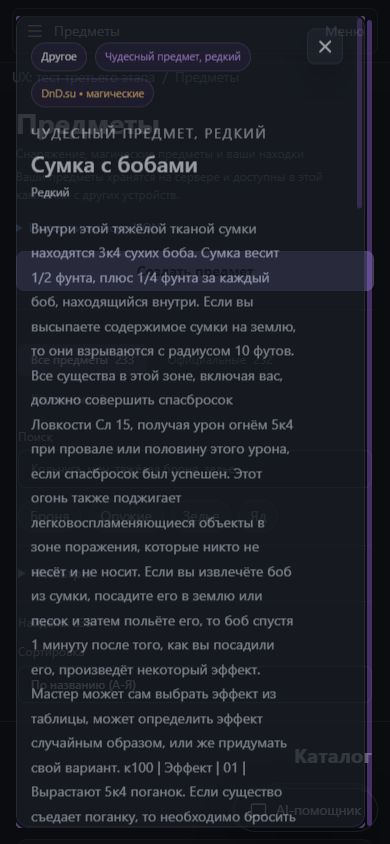
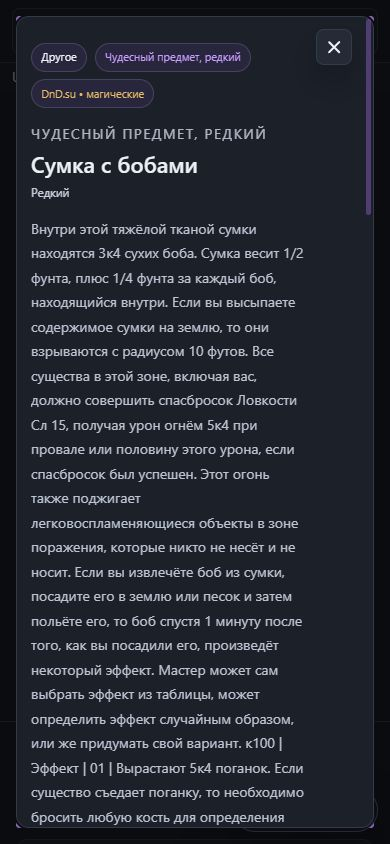
docs: record Fly release 188 verification and UI evidence

Changed region(s): [[0.0615, 0.0616, 0.8, 0.9858], [0.8, 0.0, 0.9846, 0.9858], [0.5231, 0.154, 0.6769, 0.1848]]

diff --git a/PROJECT_CONTEXT.md b/PROJECT_CONTEXT.md
@@ -2,6 +2,8 @@
 
 Краткий вход для AI-агента. Общая сверка с рабочим кодом — 14 сентября 2026 года, журнал и AI-анализ сессий дополнительно сверены 16 сентября 2026 года, модуль персонажей — 1 октября 2026 года; общая UX-оболочка — 24 октября 2026 года. Это карта реализации, а не план разработки; перед изменением конкретного участка открой указанные исходники. Правила сопровождения: [AGENTS.md](AGENTS.md).
 
+Проверенный веб-выпуск: Fly release 188 (исходники `705f864`), health check passing и совпадение 54 JS/CSS с локальной сборкой. Авторизованный production smoke связей/сцен ожидает входа; локальный браузерный прогон и границы проверки — `design-qa.md`.
+
 ## 1. Назначение и архитектура
 
 **Product Design UI.** Выбран [вариант 3](docs/audits/product-design-2026-10-23/concept-3.png): 64 px быстрые переходы + меню кампании, тёмные поверхности, светлый текст и лавандовый акцент. Канонические переменные — `packages/design-tokens/src/theme.css`, импорт через `styles/tokens.css` в web entry; App больше не сбрасывает их поздним импортом. `styles/product-design.css` после workspace.css задаёт общую оболочку и portal-окна. На ≤1120 px — меню с Escape/focus return. Записи, специализированные квесты/заметки/монстры и selected ready reader имеют общую панель связей; при preview/на телефоне она остаётся доступна ниже содержимого. RecordIllustration сохраняет пропорции, максимум 720 px/540 px, маленькие исходники не увеличивает; отдельный ImageZoomDialog даёт приближение. EntityEditorModal открывает раздел art/media/summary/content/stats/rewards по явному действию у блока; музыка/галерея доступны и при редактировании. AIJobsPanel в pageMode — обычная section, floating — modeless dialog; лишнего launcher на странице чата нет. Вопрос/неподтверждённая отправка AI имеют account/campaign draft без автоматического повтора запроса. Копии черновиков можно явно оставить на устройстве и продолжить текущую форму. Монстр без statBlock сохраняет независимые действия редактирования; `reward-input.ts` отбрасывает пустую строку категории «Лут», явный пустой reward document очищает блок без фиктивной добычи. Предмет в модальном окне хранится независимо от страницы каталога; прямая ссылка/ошибка загрузки/повтор и Escape обновляют URL. Оффлайн остаётся Beta; прежние dirty baseline, правила и модели/цены AI сохранены. LoginScreen прокручивается в пределах 100dvh. Проверки и ограничения — [design-qa.md](design-qa.md), свежие снимки — `docs/audits/product-design-2026-10-24/`.

diff --git a/design-qa.md b/design-qa.md
@@ -40,6 +40,6 @@ P1: shallow baseline compact delta, зависимость открытого п
 
 Пройдены полный Go suite, web build (TypeScript/Vite/gzip), MCP build+35 tests и регрессии routes/device drafts/transport/compact responses/scene editing/creative/reward input. Есть отдельные Go-тесты owner/revision/rollback/immutable ready overlay/JSONB split и последовательных compact PATCH. Полнота тестов не подменяет браузерную проверку выше.
 
-Локальный verdict: проверенные сценарии готовы к выпуску. Итоговые Fly health/asset hashes и статус авторизованного smoke записываются в [production-check.json](docs/audits/product-design-2026-10-24/production-check.json). До входа пользователя private production smoke остаётся непроверенным.
+Выпущен Fly release 188 из commit 705f864. Health check passing; главная, healthz/livez — 200, private API без сессии — 401; все 54 JS/CSS совпали с локальной сборкой. Итоговые hashes и статус авторизованного smoke записаны в [production-check.json](docs/audits/product-design-2026-10-24/production-check.json). До входа пользователя private production smoke остаётся непроверенным.
 
 Не проверялись реальное списание AI, внешние OAuth-provider credentials, физический touch/TV, live Foundry и все классы/уровни/административные роли. Игровые формулы/содержание immutable adventure и print-экспорт не менялись; частичное покрытие справочника остаётся явным ограничением, а не результатом редизайна.

diff --git a/docs/audits/2026-10-24-entity-scenes-audit.md b/docs/audits/2026-10-24-entity-scenes-audit.md
@@ -40,6 +40,6 @@
 
 ## Выпуск и границы доказательств
 
-Итоговый выпуск и health/assets фиксируются в `product-design-2026-10-24/production-check.json` после деплоя. Авторизованный production smoke требует входа пользователя в открытую вкладку; его нельзя подменять локальным fixture или анонимным health. Запрос на вход отправлен во время работы, пароль не запрашивается в чате.
+Fly release 188 опубликован из commit 705f864; health check passing, `/`, `/healthz`, `/livez` возвращают 200, private API без сессии — 401. Все 54 JS/CSS совпадают с локальной сборкой. Образ и SHA-256 записаны в `product-design-2026-10-24/production-check.json`. Авторизованный production smoke требует входа пользователя в открытую вкладку; его нельзя подменять локальным fixture или анонимным health. Запрос на вход отправлен во время работы, пароль не запрашивается в чате.
 
 Не заявляется полное прохождение всех классов/уровней, реального платного inference, живого импорта в Foundry, физического TV/сенсорного устройства либо всех административных ролей. Эти внешние сценарии не были изменены и не выдаются за проверенные. Биллинг, полнота справочников и остальные отдельные продуктовые ограничения исходного аудита не закрываются изменением оформления.
